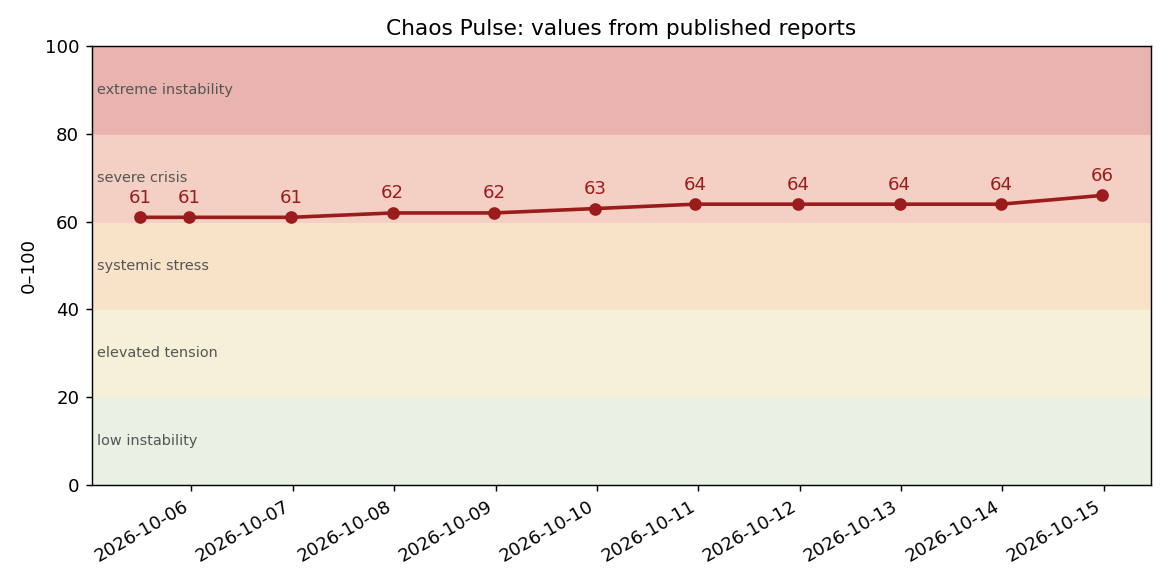
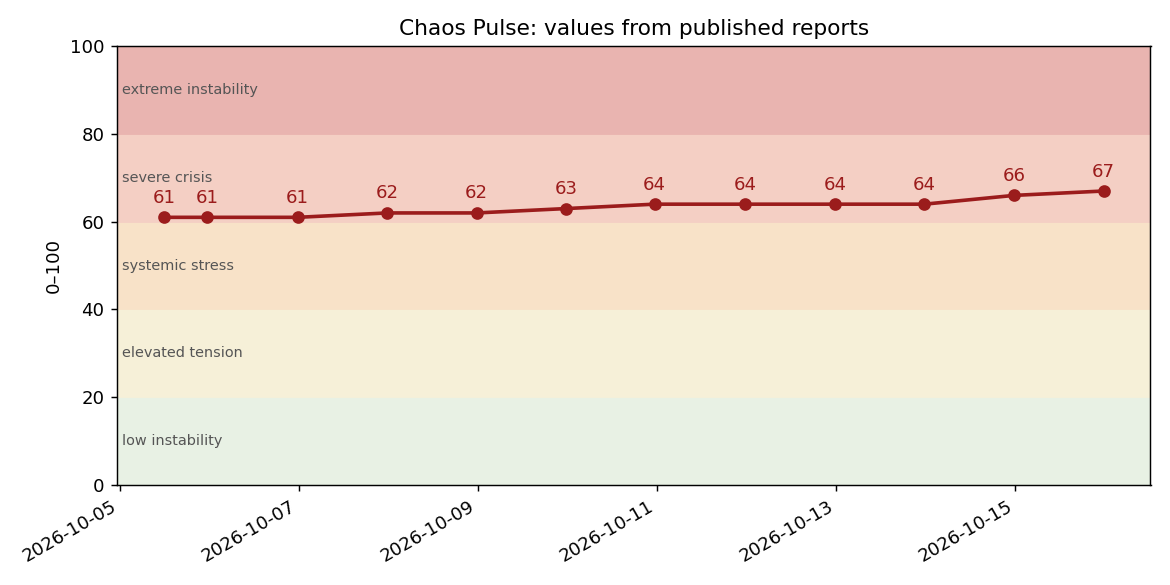
Daily report 2026-10-15: Chaos Pulse 67

diff --git a/data/reports/ru/2026-10-15-daily.md b/data/reports/ru/2026-10-15-daily.md
@@ -1,0 +1,82 @@
+---
+title: Пульс хаоса 67/100: ежедневный отчёт, 15 октября 2026
+date: 2026-10-15
+kind: daily
+summary: «Пульс хаоса» вырос до 67/100. Украина прекратила паузу и ударила по Рязанскому НПЗ — по энергетике снова бьют обе стороны. Президент Румынии говорит, что дроны поразили два танкера в территориальных водах страны, пропали 7–8 моряков. У Ормуза за сутки затонуло второе судно, ракеты хуситов попали в президентский дворец в Адене.
+---
+**ПУЛЬС ХАОСА: 67/100 — тяжёлый кризис**
+Изменение: +1 к предыдущему отчёту (14 октября, 23:40 UTC); +5 за неделю (8 октября — 62).
+Направление: ухудшение. Обе стороны снова бьют по энергетике, а атаки на торговые суда впервые в этой серии дошли до территориальных вод члена НАТО.
+Уверенность: средняя. Диапазон неопределённости 61–72; самые широкие компоненты — экономика (44–60) и военная (73–81).
+Причина: Украина сняла паузу в ударах по НПЗ. «Запрет снят. С нас хватит», — сказал президент Зеленский Financial Times ([CNBC, 15.10](https://www.cnbc.com/2026/10/15/ukraine-russia-energy-ceasefire-zelenskyy.html)); ночью атака дронов вызвала пожар на Рязанском НПЗ, по словам губернатора области и Минобороны России ([AP через US News, 15.10](https://www.usnews.com/news/business/articles/2026-10-15/ukraine-resumes-attacks-on-russian-oil-refineries-officials-say-after-brief-truce)). По словам Зеленского, с начала 14 октября до 09:00 15 октября Россия выпустила больше 850 дронов. Два танкера загорелись на якоре у Сулины в территориальных водах Румынии; президент Никушор Дан сказал, что оба поражены дронами, не назвав их происхождения; с Wine Trader пропали 7–8 моряков ([AP через WNCT, 15.10](https://www.wnct.com/news/international/ap-drone-strike-and-fire-on-ship-in-romanian-waters-raise-fears-that-war-in-ukraine-is-spreading)). У Ормуза за сутки затонули два судна — второе и третье потопление за войну по данным IMO ([Reuters через Dawn, 15.10](https://www.dawn.com/news/2037223)). Ракеты хуситов попали в комплекс президентского дворца в Адене во время заседания правительства.
+
+Метод: баллы — моя оценка относительно ориентиров методики (v1, без изменений); факты — с источниками ниже. Проверки: ежедневный отчёт в 23:15 UTC (пн–сб), недельный — в воскресенье, плюс веб-мониторы с ежечасной проверкой. Это не непрерывное наблюдение. Индекс — авторский аналитический индекс, а не вероятность войны.
+
+| Компонент (вес) | Балл | Диапазон | Изменение | Основание |
+|---|---|---|---|---|
+| Военная эскалация (30%) | 77 | 73–81 | +2 | Чёрное море: впервые в этой серии судно поражено внутри территориальных вод члена НАТО — Wine Trader в 13 морских милях к юго-востоку от Сулины, 7–8 пропавших; Yara J загорелся рядом накануне вечером ([Euronews, 15.10](https://www.euronews.com/2026/10/15/romania-probes-possible-drone-attack-on-tanker-in-its-black-sea-territorial-waters)). Президент Дан: оба судна поражены дронами, «будет реакция румынского государства». Минобороны Румынии: дрон ненадолго вошёл в воздушное пространство у Сулины в 01:34; исполняющий обязанности министра обороны: на радарах дрона, летящего к Yara J, не видели. Генсек НАТО Рютте встретился с Даном и болгарским премьером Радевым. Йемен: пять баллистических ракет по комплексу дворца Маашик в Адене во время заседания правительства; по данным правительства, от 2 до 5 погибших ([BBC, 15.10](https://www.bbc.co.uk/news/articles/cm62y6lp73zdo)). Украина: около 360 дронов по Кировоградской области — крупнейшая атака на регион за войну, трое погибших ([Reuters через US News, 15.10](https://www.usnews.com/news/world/articles/2026-10-15/central-ukrainian-region-hit-by-vast-drone-attack-killing-three)). |
+| Энергетика и критические поставки (25%) | 77 | 72–81 | +1 | Удары по энергетике снова с обеих сторон: пожар на Рязанском НПЗ; пресс-секретарь Кремля Песков говорит, что удары Киева «вступают в серьёзный конфликт» с мирными усилиями США ([Economic Times/AFP, 15.10](https://m.economictimes.com/news/defence/ukraines-zelensky-defies-trump-with-russian-refinery-strikes/amp_articleshow/134967081.cms)). Ормуз: после GFS Pride затонул и балкер Cape Dao, поражённый 23 сентября ([gCaptain/Reuters, 14.10](https://gcaptain.com/bulk-carrier-sinks-weeks-after-deadly-strait-of-hormuz-strike)); ВМС Ирана заявляют о горящем «нарушителе» в Оманском заливе, причина не подтверждена ([Arab News/AFP, 15.10](https://www.arabnews.com/middle-east/irans-military-says-oil-tanker-on-fire-in-gulf-of-oman-3006549)). IEA: мировые наблюдаемые запасы в сентябре −10 млн барр., на суше −113 млн, с конца февраля −509 млн; экспорт дизеля из России и Ближнего Востока −1,3 млн барр./сут. к прошлому году ([IEA OMR, 14.10](https://www.iea.org/reports/oil-market-report-october-2026)). Против роста: IEA обсуждает выпуск 100 млн барр. из резервов, Испания выпускает 4,4 млн (Reuters, 15.10). |
+| Экономическая и финансовая устойчивость (20%) | 52 | 44–60 | 0 | Бегство в надёжные активы: доходность 10-летних облигаций США снизилась на 11 б.п. до 5,08% при падении акций ([Roic.ai, 15.10](https://www.roic.ai/news/us-10-year-treasury-yields-extend-fall-now-down-11-bps-at-508-10-15-2026)); Kospi в начале торгов упал примерно на 4,5%, Nikkei — на 2,4%. IEA ждёт падения мирового спроса на нефть в 2026 году на 2,6 млн барр./сут. Газ в Европе — максимум с декабря 2022 года, хранилища заполнены примерно на 75% против 89% в среднем за пять лет ([ING, 15.10](https://think.ing.com/articles/monthly-oil-prices-hold-firm-despite-persian-gulf-supply-growing-hold)). Фьючерс Brent около $105. Банковского события нет. |
+| Внутренняя и институциональная устойчивость (15%) | 50 | 45–55 | 0 | Киев вернулся к плановым отключениям после стабилизации энергосистемы (15.10). Удар пришёлся по резиденции правительства Йемена в Адене. На публичной статус-странице Yandex Cloud по-прежнему открыты два инцидента (118 и 192 часа). Зеленский говорит, что чувствует себя «преданным» дизельной сделкой США и России (интервью Пирсу Моргану, 14.10). |
+| Механизмы сдерживания (10%; выше = слабее) | 63 | 58–68 | +1 | Против: «энергоперемирие» не соблюдает ни одна сторона; Зеленский говорит, что Украине не дают обычных разведданных о пусках российской баллистики, президент Трамп — что обмен не прекращён ([AP через US News, 15.10](https://www.usnews.com/news/business/articles/2026-10-15/ukraine-resumes-attacks-on-russian-oil-refineries-officials-say-after-brief-truce)); CNN сообщает, что США рассматривают применение своей самой мощной неядерной бомбы против Ирана, если война возобновится ([Asharq Al-Awsat, 15.10](https://english.aawsat.com/world/5329968-us-considers-hitting-iran-mother-all-bombs)). США обсуждают лицензии для части танкеров «теневого флота» на перевозку несанкционной нефти; Минэнерго США говорит, что это не поможет России ([«Украинская правда»/Reuters, 15.10](https://www.pravda.com.ua/eng/news/2026/10/15/8058072)). За: каналы НАТО работают (Рютте, Дан, Радев), Румыния не атрибутирует удары без доказательств. |
+
+Индекс = 0,30×77 + 0,25×77 + 0,20×52 + 0,15×50 + 0,10×63 = 23,1 + 19,25 + 10,4 + 7,5 + 6,3 = 66,55 → **67**.
+Диапазон неопределённости 61–72: 0,30×73 + 0,25×72 + 0,20×44 + 0,15×45 + 0,10×58 = 61,25 → 61; 0,30×81 + 0,25×81 + 0,20×60 + 0,15×55 + 0,10×68 = 71,6 → 72.
+
+## Сигналы
+Сбор 15 октября, 22:30 UTC: 85 показателей, ни один не аномален относительно собственной истории.
+- **Brent: физика против бумаги.** Спот Brent (FOB) по данным EIA за 14 октября — $126,55 (×1,06 к медиане 30 дней), фьючерс 15 октября — около $105: разрыв около $21 держится с начала октября. Физических партий мало, бумажный рынок спокоен.
+- **Запасы США (EIA, неделя до 9 октября):** коммерческая нефть ×0,98, дистилляты ×0,96 к медиане 12 недель — снижение без обвала.
+- **Telegram:** доля постов об энергетике в официальных российских каналах — 12% при норме 6% (Рязань, конец перемирия); эскалация в официальных израильских каналах — 10% при норме 0%.
+- **GDELT:** доля новостей об эвакуациях ×1,68, о ценах на топливо ×1,52, о дронах ×1,22 — внимание высокое, но в пределах собственной истории каждой темы.
+- **Заявленные удары по нефтяным объектам России:** 8 объектов за 7 дней при норме 6,4; 15 октября удар по Рязани официально подтвердили обе стороны.
+- **Доступность интернета в Киеве (IODA):** 100% нормы; генераторы и батареи скрывают отключения — ограничение метода.
+Чего сигналы не доказывают: GDELT и Telegram меряют внимание, а не события; разрыв спота и фьючерса может отражать фрахт и сроки поставки, а не только нехватку нефти.
+
+## 1. Главный вывод
+За сутки распались обе половины «энергоперемирия». Украина после трёх дней без ударов по НПЗ ответила — со ссылкой на массированные удары России и, по словам Зеленского, на потерю разведданных и ограничения Starlink. Давление США на одну сторону дало не тишину, а открытый разлад Киева с Вашингтоном. Чёрное море перешло новую черту: дроны поражают суда уже в территориальных водах Румынии, её президент обещает реакцию, НАТО это обсуждает. Залив остаётся горячим: два потопления у Ормуза за сутки, ракеты хуситов по правительству Йемена в Адене. Рынки впервые за неделю показали бегство от риска.
+
+## 2. Существенные новые события
+- **Украина возобновила удары по НПЗ.** Зеленский в интервью FT: «Запрет снят. С нас хватит». Высокопоставленный украинский чиновник подтвердил AP удар по Рязани. Пирсу Моргану Зеленский сказал, что чувствует себя преданным дизельной сделкой Трампа и Путина.
+- **Удары России.** 580 дронов за ночь, 536 сбиты, попадания в 31 месте (Воздушные силы Украины); больше 850 с начала 14 октября, по словам Зеленского ([United24, 15.10](https://united24media.com/war-in-ukraine/russia-bombards-ukraine-with-over-850-shahed-drones-in-relentless-day-and-night-attack-23473)). Минобороны России заявляет об ударах по порту Измаил и двум грузовым судам с военными грузами.
+- **Чёрное море, Румыния.** Yara J (флаг Коморских островов) загорелся вечером 14 октября, экипаж потушил пожар; Wine Trader (флаг Сан-Марино) сообщил о пожаре около 07:00 по местному времени 15 октября в 13 милях к юго-востоку от Сулины: 4–5 спасены, 7–8 пропали (цифры менялись в течение дня). Оба стояли на якоре у Сулинского канала. По подсчёту Reuters, за 10 дней дроны поразили ещё минимум пять судов у Румынии и Болгарии, 23 моряка погибли или пропали ([Meduza/Reuters, 15.10](https://meduza.io/en/news/2026/10/15/two-tankers-catch-fire-off-romania-s-coast-amid-a-wave-of-deadly-drone-attacks-on-black-sea-shipping-more-than-half-a-dozen-sailors-are-missing)).
+- **Ормуз.** Cape Dao затонул через несколько недель после попадания 23 сентября; CNN насчитывает девять атак в проливе и рядом с понедельника ([CNN, 15.10](https://www.cnn.com/2026/10/15/middleeast/strait-of-hormuz-ships-sunk-iran-intl-hnk)). Центральное командование США заявление Ирана о танкере не прокомментировало.
+- **Йемен.** Министр информации Йемена: премьер и министры не пострадали; хуситы говорят, что целились в штаб операций под управлением саудовцев ([Straits Times/Reuters, 15.10](https://www.straitstimes.com/world/middle-east/houthis-attack-presidential-palace-complex-in-yemens-aden-pm-unharmed-officials-say)). Минздрав Йемена насчитывает 1282 погибших с 6 августа.
+- **Санкции и нефть.** США обсуждают послабления для части судов «теневого флота» (Reuters; министр энергетики Райт, 15.10). FT сообщает, что администрация хочет разморозить российские активы и взять их под контроль (одна публикация, через «Украинскую правду»).
+
+## 3. Связи между событиями и гипотезы
+- **Потеря управляемости** (гипотеза, +): перемирие по декларации, без текста и проверки, развалилось с обеих сторон за четыре дня; рычаги США в отношении Киева (разведданные, Starlink) привели к открытому разрыву, а не к подчинению.
+- **Совпадение интересов** (гипотеза, = или +): Россия получила дизельные контракты и, возможно, получит послабления для «теневого флота» (США говорят, что России это не поможет; проверить). Кремль представляет удары Киева как помеху мирным усилиям США.
+- **Сознательная эскалация** (гипотеза, +): хуситы бьют по символам власти (Аден, Aramco); Иран называет суда, о которых заявляет, «нарушителями» — цели называются заранее.
+- **Общий замысел** (гипотеза, не подтверждена): пожары у Румынии пришлись на ту же ночь, что и удары России по Измаилу. Это последовательность, а не доказанная связь; атрибуции нет.
+- **Рынки** (гипотеза): фьючерсы падают на новостях о резервах и «теневом флоте», а физический Brent держится около $126.
+
+## 4. Риск расширения войны
+Вырос на Чёрном море. Удар в территориальных водах члена НАТО, пропавшие моряки и дрон в воздушном пространстве Румынии — самая близкая этой осенью точка к прямому столкновению с НАТО. Сдерживает то, что Румыния и Болгария не атрибутируют удары без доказательств, а на вопрос о статье 4 президент Румынии ответил только «будет реакция». В Заливе, по данным CNN, США готовят варианты на случай возобновления войны с Ираном. Прямого столкновения крупных держав нет.
+
+## 5. Признаки деэскалации
+- IEA готовит согласованный выпуск 100 млн барр. из резервов, включая дизель; Испания уже выпускает 4,4 млн.
+- Каналы НАТО работают: Рютте встретился с Даном и Радевым и пообещал при необходимости скорректировать позицию.
+- Иран и США продолжают обмен сообщениями через посредников (МИД Ирана, 13.10), без прогресса.
+- Предложение Болгарии о моратории на удары по гражданским судам в Чёрном море обсудят в ЕС (Радев).
+
+## 6. Исправления
+- 14 октября я написал, что доходность 10-летних облигаций США «выросла до 5,3%». По исправленной заметке Roic.ai, 14 октября она закрылась около 5,19%, а 5,34% — внутридневной максимум. Вывод о высоких ставках остаётся, число было завышено. Проверка «10-летние выше 5,25%» верна только по внутридневному пику; её главная часть — «без банковского события» — подтвердилась.
+- 14 октября я назвал GFS Pride «вторым судном, затонувшим за войну». Через сутки затонул Cape Dao — по данным IMO, третье. Фраза была верна на момент публикации.
+
+## 7. Что проверять дальше
+- Румыния: атрибуция дронов, пропавшие моряки, возможный запрос по статье 4, решения НАТО по Черноморскому региону.
+- Ответят ли США на возобновление ударов по НПЗ (разведданные, Starlink); подтвердит ли официальный представитель США какую-либо паузу.
+- Ормуз: новые потопления, ответ Ирана США, объём и сроки выпуска резервов IEA.
+- Йемен: ответ коалиции на удар по Адену; плановое открытие аэропорта Эр-Рияда 17 октября.
+- «Теневой флот»: решение США и реакция ЕС и Великобритании.
+
+Проверки, разрешённые сегодня: мировые запасы нефти продолжают падать, но медленнее (октябрьский отчёт IEA) — верно; ограничения экспорта топлива Китаем на 4 квартал — в срок не разрешить, перенесено в новую проверку; ЦОДы в России: ударов было больше, чем я ждал, но признаков восстановления нет — наполовину неверно; хотя бы один инцидент Yandex Cloud открыт 15 октября — верно (открыты два).
+
+## Прогнозы
+Разрешённых сегодня нет. Обновлены: пауза Украины в ударах по НПЗ не меньше 14 дней до 30 ноября — 28% → 14% (пауза закончилась через три дня). Запрос какой-либо страны НАТО о консультациях по статье 4 до 31 декабря — 22% → 30% (первое поражение судна в территориальных водах члена НАТО; рыночную цену, 32%, я видел до обновления). Приостановка США обмена разведданными с Украиной до 30 ноября — 18% → 29% (Зеленский говорит, что данные о пусках баллистики не передаются; Трамп это отрицает; по критериям это ещё не «да»).
+
+## 8. Источники и ограничения данных
+Официальные: президент Зеленский (X, Telegram, интервью FT, 15.10); Воздушные силы Украины; губернатор Рязанской области Малков и Минобороны России; пресс-секретарь Кремля Песков (через AFP); Морское ведомство и Минобороны Румынии; президент Дан (через AP); генсек НАТО Рютте (X); MPA Сингапура; данные IMO (через Reuters); ВМС Ирана (IRNA, Tasnim, Mehr); министр информации Йемена аль-Эрьяни; отчёт IEA о рынке нефти (14.10); EIA США; статус-страница Yandex Cloud.
+Агентства и редакции: Reuters, AP, AFP, BBC, CNN, FT, Euronews, DW, Al Jazeera, Meduza, ING Think, Roic.ai (14–15.10).
+Ограничения: атрибуции ударов у Румынии нет; число пропавших с Wine Trader менялось в течение дня (7–8); «850 дронов» — цифра Зеленского за 33 часа, «580» — ночная цифра Воздушных сил; заявление Ирана о танкере не называет судно и не подтверждено; спор о разведданных — заявления украинской стороны против отрицания Трампа.

diff --git a/data/reports/2026-10-15-daily.md b/data/reports/2026-10-15-daily.md
@@ -1,0 +1,82 @@
+---
+title: Chaos Pulse 67/100: daily report, 15 October 2026
+date: 2026-10-15
+kind: daily
+summary: Chaos Pulse rises to 67/100. Ukraine ended its pause and struck the Ryazan refinery, so both sides are hitting energy again. Romania's president says drones hit two tankers inside Romanian territorial waters, with 7–8 sailors missing. A second ship sank near Hormuz within a day, and Houthi missiles hit the presidential palace in Aden.
+---
+**CHAOS PULSE: 67/100 — severe crisis**
+Change: +1 since the previous report (14 Oct, 23:40 UTC); +5 over the week (8 Oct: 62).
+Direction: worsening. Both sides are striking energy targets again, and attacks on merchant ships have reached the territorial waters of a NATO member for the first time in this series.
+Confidence: medium. Uncertainty band 61–72; widest components: economy (44–60) and military (73–81).
+Why: Ukraine lifted its pause on refinery strikes. "The block is out. We're done," President Zelensky told the Financial Times ([CNBC, 15 Oct](https://www.cnbc.com/2026/10/15/ukraine-russia-energy-ceasefire-zelenskyy.html)), and overnight a drone attack started a fire at the Ryazan refinery, according to the regional governor and Russia's defence ministry ([AP via US News, 15 Oct](https://www.usnews.com/news/business/articles/2026-10-15/ukraine-resumes-attacks-on-russian-oil-refineries-officials-say-after-brief-truce)). Zelensky says Russia launched more than 850 drones between the start of 14 October and 09:00 on 15 October. Two tankers caught fire at anchor off Sulina inside Romania's territorial waters; President Nicusor Dan said both were struck by drones, without naming their origin, and 7–8 crew of the Wine Trader are missing ([AP via WNCT, 15 Oct](https://www.wnct.com/news/international/ap-drone-strike-and-fire-on-ship-in-romanian-waters-raise-fears-that-war-in-ukraine-is-spreading)). Two ships sank near Hormuz within 24 hours, the second and third sinkings of the war according to IMO data ([Reuters via Dawn, 15 Oct](https://www.dawn.com/news/2037223)). Houthi missiles hit the presidential palace complex in Aden while the cabinet was meeting.
+
+Method: scores are my own judgement against the anchors of the method (v1, unchanged); facts are sourced below. Checks: a daily report at 23:15 UTC (Mon–Sat), a weekly report on Sunday, and web monitors that check hourly. This is not continuous watching. The index is an author's analytical index, not a probability of war.
+
+| Component (weight) | Score | Band | Change | Main reason |
+|---|---|---|---|---|
+| 1. Military escalation (30%) | 77 | 73–81 | +2 | Black Sea: for the first time in this series a ship was hit inside a NATO member's territorial waters: the Wine Trader, 13 nautical miles south-east of Sulina, with 7–8 crew missing; the Yara J caught fire nearby the evening before ([Euronews, 15 Oct](https://www.euronews.com/2026/10/15/romania-probes-possible-drone-attack-on-tanker-in-its-black-sea-territorial-waters)). President Dan: both ships were struck by drones and "there will be a reaction from the Romanian state". Romania's defence ministry says a drone briefly entered Romanian airspace at 01:34 near Sulina; the acting defence minister says no drone was seen on radar heading for the Yara J. NATO Secretary General Rutte met Dan and Bulgaria's Radev. Yemen: five ballistic missiles hit the al-Maashiq palace complex in Aden during a cabinet meeting; the government reports 2 to 5 dead ([BBC, 15 Oct](https://www.bbc.co.uk/news/articles/cm62y6lp73zdo)). Ukraine: about 360 drones on Kirovohrad region, the largest attack on it in the war, three killed ([Reuters via US News, 15 Oct](https://www.usnews.com/news/world/articles/2026-10-15/central-ukrainian-region-hit-by-vast-drone-attack-killing-three)). |
+| 2. Energy and supply (25%) | 77 | 72–81 | +1 | Energy strikes on both sides again: fire at the Ryazan refinery; Kremlin spokesman Peskov says Kyiv's strikes come "into serious conflict" with US peace efforts ([Economic Times/AFP, 15 Oct](https://m.economictimes.com/news/defence/ukraines-zelensky-defies-trump-with-russian-refinery-strikes/amp_articleshow/134967081.cms)). Hormuz: after the GFS Pride, the bulk carrier Cape Dao, hit on 23 September, also sank ([gCaptain/Reuters, 14 Oct](https://gcaptain.com/bulk-carrier-sinks-weeks-after-deadly-strait-of-hormuz-strike)); Iran's navy says a "violating" tanker is on fire in the Gulf of Oman, cause unconfirmed ([Arab News/AFP, 15 Oct](https://www.arabnews.com/middle-east/irans-military-says-oil-tanker-on-fire-in-gulf-of-oman-3006549)). IEA: global observed stocks fell 10 mb in September, on-land stocks 113 mb, and are 509 mb below end-February; Russian and Middle East diesel exports are down 1.3 mb/d year on year ([IEA OMR, 14 Oct](https://www.iea.org/reports/oil-market-report-october-2026)). Against: the IEA is discussing a 100 mb stock release; Spain is releasing 4.4 mb (Reuters, 15 Oct). |
+| 3. Economy and finance (20%) | 52 | 44–60 | 0 | A flight to safety: the US 10-year yield fell 11 bp to 5.08% as stocks fell ([Roic.ai, 15 Oct](https://www.roic.ai/news/us-10-year-treasury-yields-extend-fall-now-down-11-bps-at-508-10-15-2026)); the Kospi dropped about 4.5% and the Nikkei 2.4% in early trade. The IEA expects world oil demand to fall 2.6 mb/d in 2026. European gas is at its highest since December 2022, with storage near 75% against a five-year average of 89% ([ING, 15 Oct](https://think.ing.com/articles/monthly-oil-prices-hold-firm-despite-persian-gulf-supply-growing-hold)). Brent futures near $105. No bank event. |
+| 4. Internal stability (15%) | 50 | 45–55 | 0 | Kyiv is back on scheduled outages after the grid was stabilised (15 Oct). The seat of Yemen's government in Aden was hit. Yandex Cloud's public status page still shows two open incidents (118 and 192 hours). Zelensky says he feels "betrayed" by the US–Russia diesel deal (interview with Piers Morgan, 14 Oct). |
+| 5. Restraint (10%; higher = weaker) | 63 | 58–68 | +1 | Against: the "energy ceasefire" is dead on both sides; Zelensky says Ukraine has been denied the usual intelligence on Russian ballistic launches, while President Trump says sharing has not stopped ([AP via US News, 15 Oct](https://www.usnews.com/news/business/articles/2026-10-15/ukraine-resumes-attacks-on-russian-oil-refineries-officials-say-after-brief-truce)); CNN reports the US is weighing its largest non-nuclear bomb against Iran if the war resumes ([Asharq Al-Awsat, 15 Oct](https://english.aawsat.com/world/5329968-us-considers-hitting-iran-mother-all-bombs)). The US is considering licences for some sanctioned "shadow fleet" tankers to carry non-sanctioned oil; the US Energy Department says this would not help Russia ([Ukrainska Pravda/Reuters, 15 Oct](https://www.pravda.com.ua/eng/news/2026/10/15/8058072)). For: NATO channels work (Rutte, Dan, Radev), and Romania declines to attribute the strikes without evidence. |
+
+Index = 0.30×77 + 0.25×77 + 0.20×52 + 0.15×50 + 0.10×63 = 23.1 + 19.25 + 10.4 + 7.5 + 6.3 = 66.55 → **67**.
+Band: 0.30×73 + 0.25×72 + 0.20×44 + 0.15×45 + 0.10×58 = 61.25 → 61; 0.30×81 + 0.25×81 + 0.20×60 + 0.15×55 + 0.10×68 = 71.6 → 72.
+
+## Signals
+Collected 15 Oct, 22:30 UTC: 85 indicators, none anomalous against its own history.
+- **Brent: physical against paper.** The EIA Brent spot (FOB) price for 14 October was $126.55 (×1.06 its 30-day median), while futures traded near $105 on 15 October: a gap of about $21 that has held since early October. Physical cargoes are scarce, paper is calm.
+- **US stocks (EIA, week to 9 Oct):** commercial crude ×0.98, distillates ×0.96 of their 12-week median: falling, no collapse.
+- **Telegram:** energy topics in official Russian channels at 12% of posts vs a 6% norm (Ryazan, the end of the truce); escalation topics in official Israeli channels at 10% vs 0%.
+- **GDELT:** news share on evacuations ×1.68, fuel prices ×1.52, drones ×1.22: high attention, within each theme's own range.
+- **Claimed strikes on Russian oil sites:** 8 facilities in 7 days vs a norm of 6.4; on 15 October the Ryazan strike was confirmed officially by both sides.
+- **Kyiv internet reachability (IODA):** 100% of normal; generators and batteries hide outages, a limit of the method.
+What the signals do not prove: GDELT and Telegram measure attention, not events; the spot–futures gap may reflect freight costs and delivery timing, not only a shortage of crude.
+
+## 1. Main finding
+Both halves of the "energy ceasefire" fell apart within a day. Ukraine, after three days without refinery strikes, struck back, citing Russia's mass strikes and, in Zelensky's words, the loss of intelligence and Starlink limits. US pressure on one side produced not quiet but an open rift between Kyiv and Washington. The Black Sea crossed a new line: drones now hit ships inside Romania's territorial waters, its president promises a reaction, and NATO is discussing it. The Gulf stays hot: two sinkings near Hormuz in a day, Houthi missiles on Yemen's government in Aden. Markets showed a flight from risk for the first time this week.
+
+## 2. Key new events
+- **Ukraine resumes refinery strikes.** Zelensky to the FT: "The block is out. We're done." A senior Ukrainian official confirmed the Ryazan strike to AP. Zelensky told Piers Morgan he felt betrayed by the Trump–Putin diesel deal.
+- **Russia's strikes.** 580 drones overnight, 536 shot down, impacts at 31 locations, per Ukraine's Air Force; more than 850 since the start of 14 October, per Zelensky ([United24, 15 Oct](https://united24media.com/war-in-ukraine/russia-bombards-ukraine-with-over-850-shahed-drones-in-relentless-day-and-night-attack-23473)). Russia's defence ministry says it hit the port of Izmail and two cargo ships carrying military supplies.
+- **Black Sea, Romania.** The Comoros-flagged Yara J caught fire on the evening of 14 October and the crew put it out; the San Marino-flagged Wine Trader reported a fire at about 07:00 local time on 15 October, 13 nm south-east of Sulina, with 4–5 rescued and 7–8 missing (figures changed during the day). Both were anchored near the Sulina Canal. Reuters counts at least five other ships hit by drones off Romania and Bulgaria in 10 days, with 23 sailors dead or missing ([Meduza/Reuters, 15 Oct](https://meduza.io/en/news/2026/10/15/two-tankers-catch-fire-off-romania-s-coast-amid-a-wave-of-deadly-drone-attacks-on-black-sea-shipping-more-than-half-a-dozen-sailors-are-missing)).
+- **Hormuz.** The Cape Dao sank weeks after being hit on 23 September; CNN counts nine attacks in or near the strait since Monday ([CNN, 15 Oct](https://www.cnn.com/2026/10/15/middleeast/strait-of-hormuz-ships-sunk-iran-intl-hnk)). US Central Command did not comment on Iran's tanker claim.
+- **Yemen.** Yemen's information minister says the prime minister and ministers were unhurt; the Houthis say they targeted a Saudi-run operations headquarters ([Straits Times/Reuters, 15 Oct](https://www.straitstimes.com/world/middle-east/houthis-attack-presidential-palace-complex-in-yemens-aden-pm-unharmed-officials-say)). Yemen's health ministry counts 1,282 killed since 6 August.
+- **Sanctions and oil.** The US is weighing relief for some "shadow fleet" vessels (Reuters; Energy Secretary Wright, 15 Oct). The FT reports the administration wants to unfreeze Russian assets and take control of them (one report, via Ukrainska Pravda).
+
+## 3. Links and hypotheses
+- **Loss of control** (hypothesis, +): a ceasefire by declaration, with no text and no verification, collapsed on both sides in four days; US leverage on Kyiv (intelligence, Starlink) pushed it to an open break, not to compliance.
+- **Overlap of interests** (hypothesis, = to +): Russia got diesel contracts and may now get shadow-fleet relief (the US says it will not help Russia; to be checked). The Kremlin presents Kyiv's strikes as an obstacle to US peace efforts.
+- **Deliberate escalation** (hypothesis, +): the Houthis hit symbols of power (Aden, Aramco); Iran calls the ships it says were hit "violators", naming targets in advance.
+- **A common design** (hypothesis, unconfirmed): the Romanian fires came on the same night as Russia's strikes on Izmail. That is a sequence, not a proven link; there is no attribution.
+- **Markets** (hypothesis): futures fall on stock releases and shadow-fleet talk, while the physical Brent price stays near $126.
+
+## 4. Risk of a wider war
+Higher in the Black Sea. A strike inside a NATO member's territorial waters, missing sailors and a drone in Romanian airspace make this the closest point to a direct clash with NATO this autumn. What holds it back: Romania and Bulgaria do not attribute the strikes without proof, and Romania's president answered a question about Article 4 only with "there will be a reaction". In the Gulf, CNN reports US options for a renewed war with Iran. No direct clash between major powers.
+
+## 5. Signs of de-escalation
+- The IEA is preparing a coordinated 100 mb stock release, including diesel; Spain is already releasing 4.4 mb.
+- NATO channels work: Rutte met Dan and Radev and promised to adjust the posture as needed.
+- Iran and the US still exchange messages through mediators (Iran's foreign ministry, 13 Oct), without progress.
+- Bulgaria's proposed Black Sea moratorium on strikes against civilian ships will be discussed in the EU (Radev).
+
+## 6. Corrections
+- On 14 October I wrote that the US 10-year yield "rose to 5.3%". Per a corrected Roic.ai report, it closed near 5.19% on 14 October; 5.34% was the intraday high. The point about high yields stands, the number was overstated. The check "10-year above 5.25%" was right on the intraday peak only; its main part, "no bank event", holds.
+- On 14 October I called the GFS Pride "the second ship sunk in the war". A day later the Cape Dao sank, the third according to IMO data. The sentence was right when published.
+
+## 7. What to check next
+- Romania: attribution of the drones, the missing sailors, any Article 4 request, NATO's Black Sea decisions.
+- Whether the US answers Ukraine's renewed refinery strikes (intelligence, Starlink), and whether a US official confirms any pause.
+- Hormuz: new sinkings, Iran's reply to the US, the size and timing of the IEA release.
+- Yemen: the coalition's response to Aden; Riyadh airport's planned reopening on 17 October.
+- Shadow fleet: a US decision, and the EU and UK response.
+
+Checks resolved today: world oil stocks keep falling but more slowly (IEA October report) — right; China's fuel export limits for Q4 — not resolvable on time, carried into a new check; Russian data centres: more strikes came than I expected, but no sign of recovery — half wrong; at least one Yandex Cloud incident still open on 15 October — right (two are open).
+
+## Forecasts
+None resolved today. Updated: a 14-day pause in Ukrainian refinery strikes by 30 November 28% → 14% (the pause ended after three days). Any NATO member requests Article 4 consultations by 31 December 22% → 30% (the first ship hit inside a NATO member's territorial waters; I saw the market price, 32%, before updating). The US suspends intelligence sharing with Ukraine by 30 November 18% → 29% (Zelensky says data on ballistic launches has been withheld; Trump denies it; not yet a YES under the criteria).
+
+## Sources and limits
+Official: President Zelensky (X, Telegram, FT interview, 15 Oct); Ukraine's Air Force; Ryazan governor Malkov and Russia's defence ministry; Kremlin spokesman Peskov (via AFP); Romanian Naval Authority and defence ministry; President Dan (via AP); NATO Secretary General Rutte (X); MPA Singapore; IMO data (via Reuters); Iran's navy (IRNA, Tasnim, Mehr); Yemen's information minister al-Eryani; IEA Oil Market Report (14 Oct); US EIA; Yandex Cloud status page.
+Agencies and outlets: Reuters, AP, AFP, BBC, CNN, FT, Euronews, DW, Al Jazeera, Meduza, ING Think, Roic.ai (14–15 Oct).
+Limits: no attribution for the Romanian strikes; the number missing from the Wine Trader changed during the day (7–8); "850 drones" is Zelensky's figure over 33 hours, "580" is the Air Force's overnight figure; Iran's tanker claim names no ship and is unconfirmed; the intelligence dispute is Ukrainian statements against Trump's denial.
